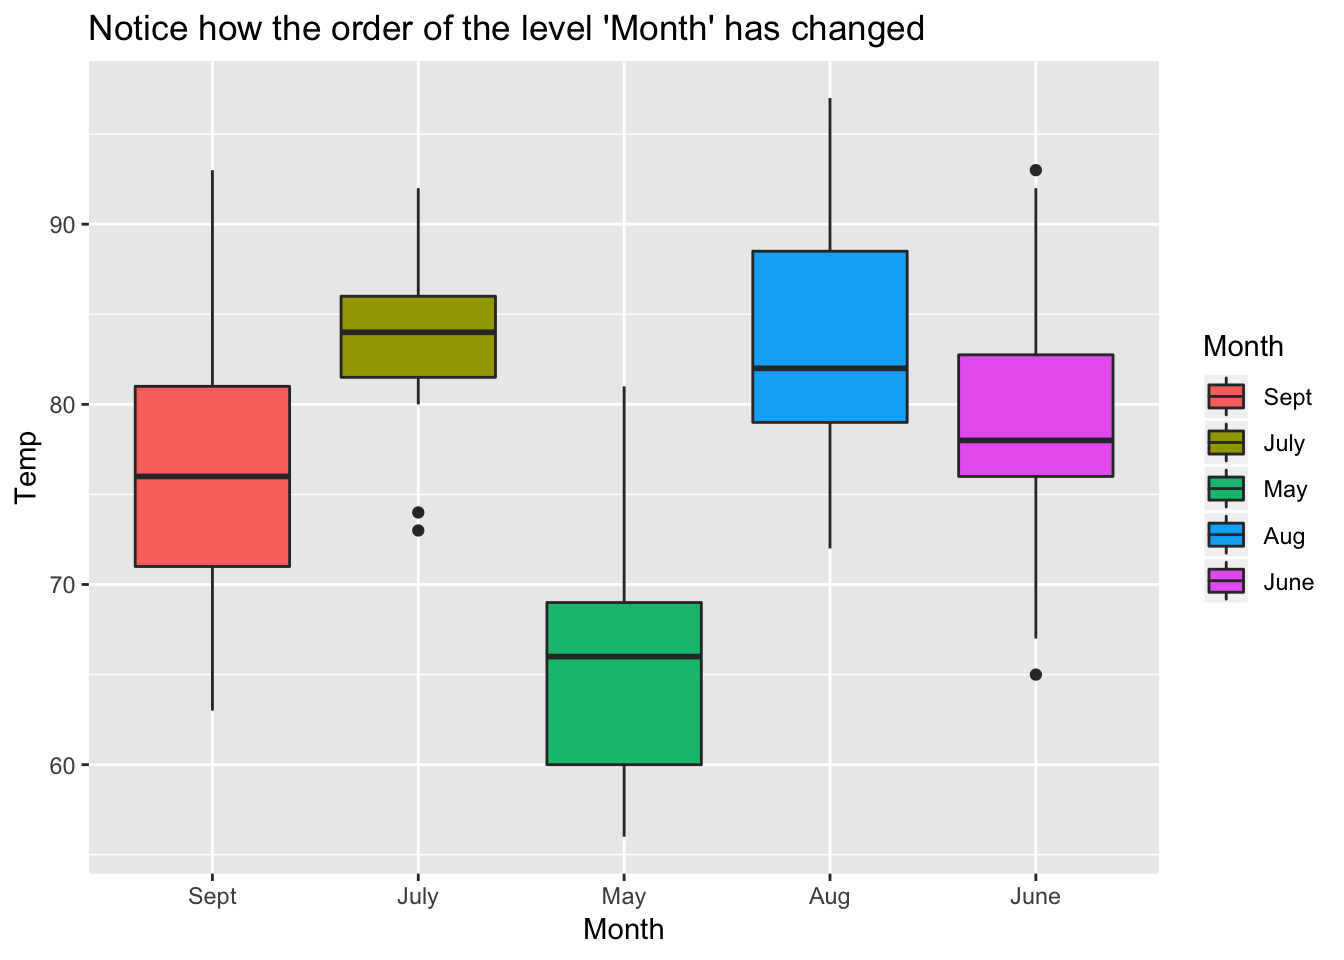
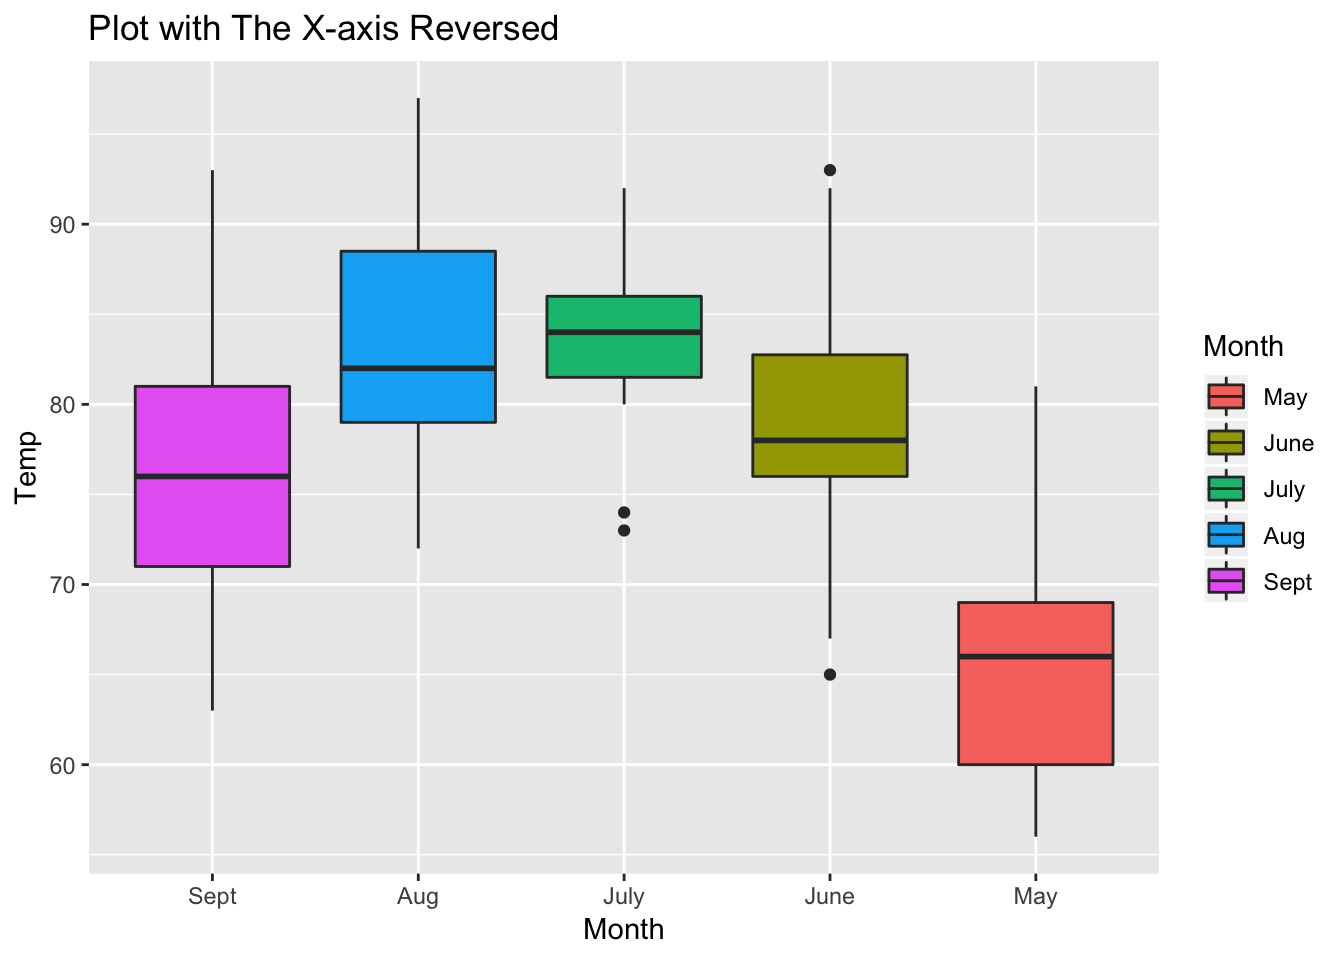
update examples

diff --git a/docs/ForCatsPackageTutorial.html b/docs/ForCatsPackageTutorial.html
@@ -435,6 +435,17 @@ library(forcats)</code></pre>
 </div>
 <div id="the-different-functions-of-forcats" class="section level2">
 <h2>The Different Functions of Forcats</h2>
+<p>It is important to note a few things before using the Forcats package. First, this package works with categorical data in the form of factors. You can check what type of class your variable is with the function class(). To use forcats, you should change your variable to a factor with the function as.factor().</p>
+<pre class="r"><code>a&lt;-&quot;hi&quot;
+class(a)</code></pre>
+<pre><code>## [1] &quot;character&quot;</code></pre>
+<pre class="r"><code>b&lt;-c(2,3,5)
+class(b)</code></pre>
+<pre><code>## [1] &quot;numeric&quot;</code></pre>
+<pre class="r"><code>c&lt;-as.factor(b)
+class(c)</code></pre>
+<pre><code>## [1] &quot;factor&quot;</code></pre>
+<p>Second,forcats is a package that is used to do something with you categorical data. When you enter in the specific R code to do something with that data, it will store it into the variable you selected. However, it may be difficult for you to see that what you did with Forcats actually happened. It is usful to also install the package <strong>dplyr</strong> and <strong>ggplot2</strong> to your R studio so you can visualize what you have done with your data</p>
 <div id="recoding-a-factor" class="section level3">
 <h3>1. Recoding a Factor</h3>
 <p>If you have categorical variables/factors, you can change the name or identity of that factor.</p>
@@ -474,7 +485,7 @@ ggplot(airquality, aes(fct_rev(Month), Temp)) +
   geom_boxplot(aes(fill = Month)) +
   labs(x = &quot;Month&quot;) +
   ggtitle(label = &quot;Plot with The X-axis Reversed&quot;)</code></pre>
-<p><img src="ForCatsPackageTutorial_files/figure-html/unnamed-chunk-3-1.png" width="672" /> ###3. Releveling a Factor</p>
+<p><img src="ForCatsPackageTutorial_files/figure-html/unnamed-chunk-4-1.png" width="672" /> ###3. Releveling a Factor</p>
 <p>This allows you to change the location or level of your factor</p>
 <pre class="r"><code>airquality$Month &lt;- fct_relevel(airquality$Month, &#39;Sept&#39;, &#39;July&#39;, &#39;May&#39;, &#39;Aug&#39;, &#39;June&#39;)
 
@@ -483,7 +494,8 @@ levels(airquality$Month)</code></pre>
 <pre class="r"><code>ggplot(airquality, aes(Month, Temp)) +
   geom_boxplot(aes(fill = Month)) +
   ggtitle(label = &quot;Notice how the order of the level &#39;Month&#39; has changed&quot;)</code></pre>
-<p><img src="ForCatsPackageTutorial_files/figure-html/unnamed-chunk-4-1.png" width="672" /> ###Factor Reorder</p>
+<p><img src="ForCatsPackageTutorial_files/figure-html/unnamed-chunk-5-1.png" width="672" /> ###Factor Reorder</p>
+<p>This allows you to reorder your factors by using another variable.</p>
 <pre class="r"><code>library(forcats)
 library(dplyr)
 glimpse(starwars)</code></pre>
@@ -502,6 +514,16 @@ glimpse(starwars)</code></pre>
 ## $ films      &lt;list&gt; [&lt;&quot;Revenge of the Sith&quot;, &quot;Return of the Jedi&quot;, &quot;The …
 ## $ vehicles   &lt;list&gt; [&lt;&quot;Snowspeeder&quot;, &quot;Imperial Speeder Bike&quot;&gt;, &lt;&gt;, &lt;&gt;, &lt;…
 ## $ starships  &lt;list&gt; [&lt;&quot;X-wing&quot;, &quot;Imperial shuttle&quot;&gt;, &lt;&gt;, &lt;&gt;, &quot;TIE Advanc…</code></pre>
+<pre class="r"><code>avg_mass_eye_color &lt;- starwars %&gt;%
+  mutate(eye_color = fct_lump(eye_color, n = 6)) %&gt;%
+  group_by(eye_color) %&gt;%
+  summarise(mean_mass = mean(mass, na.rm = TRUE))</code></pre>
+<pre class="r"><code>library(ggplot2)
+avg_mass_eye_color %&gt;%
+  mutate(eye_color = fct_reorder(eye_color, mean_mass)) %&gt;%
+  ggplot(aes(x = eye_color, y = mean_mass)) + 
+  geom_col()</code></pre>
+<p><img src="ForCatsPackageTutorial_files/figure-html/unnamed-chunk-7-1.png" width="672" /></p>
 <p><a href="https://r4ds.had.co.nz/factors.html">link to factors reference</a> <a href="https://rpubs.com/tictacjoe/forcats_tutorial" class="uri">https://rpubs.com/tictacjoe/forcats_tutorial</a> <a href="https://forcats.tidyverse.org/articles/forcats.html" class="uri">https://forcats.tidyverse.org/articles/forcats.html</a></p>
 </div>
 </div>
